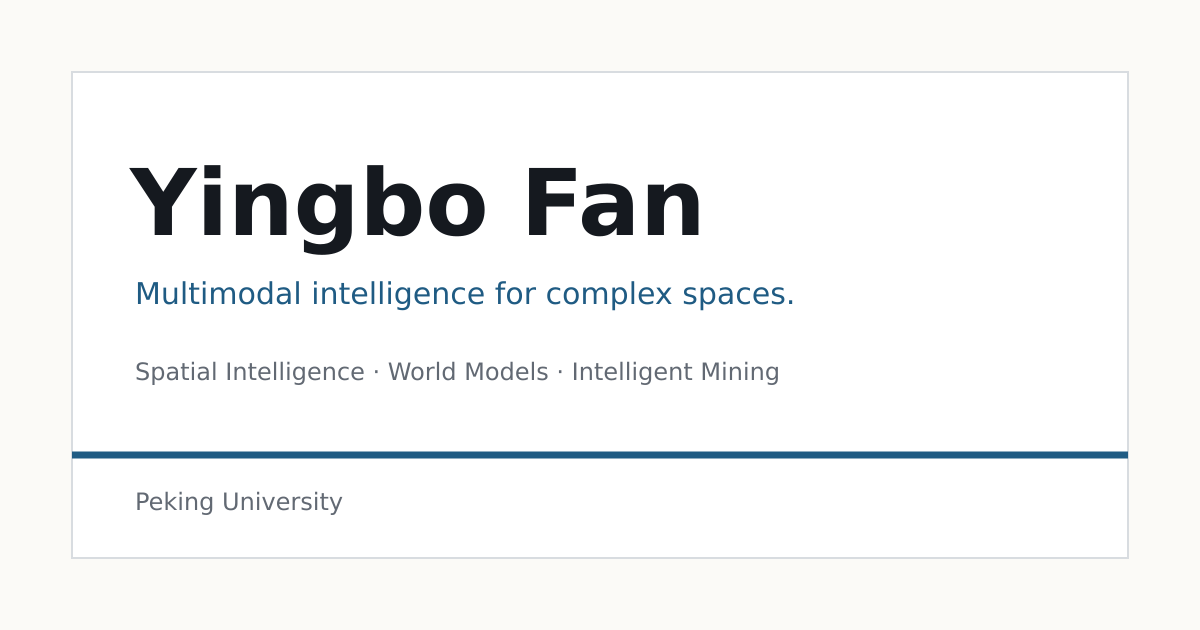
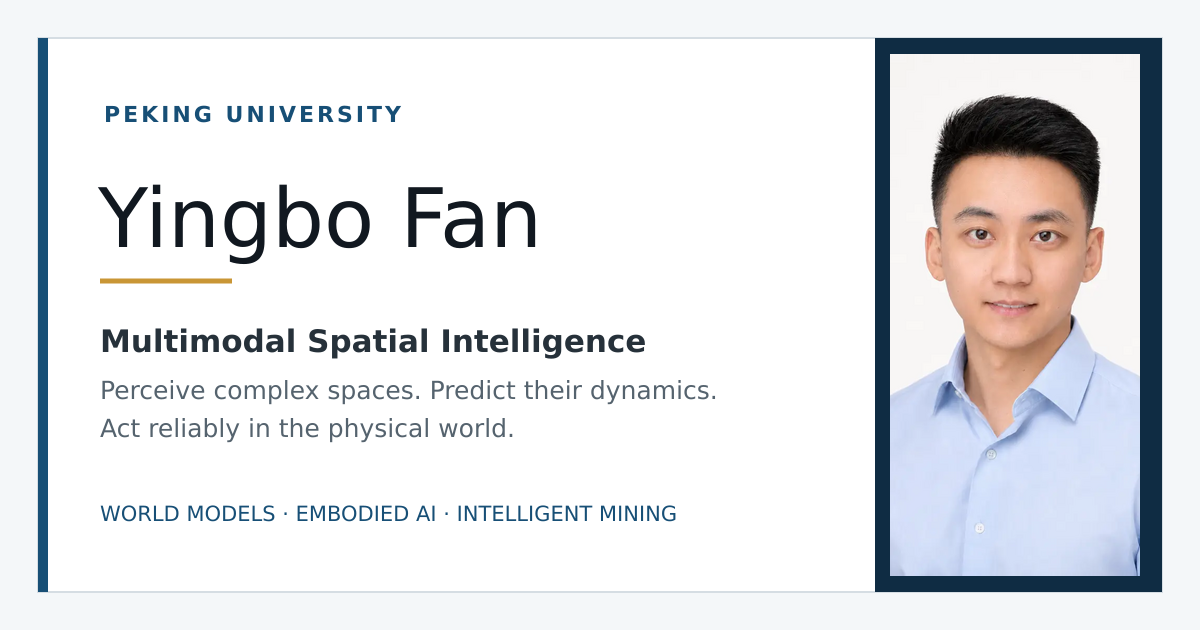
Polish citations, collaboration, and sharing

diff --git a/src/site.js b/src/site.js
@@ -46,3 +46,34 @@ if (filterButtons.length && publicationRows.length) {
 
   updateFilter('all');
 }
+
+const bibtexButtons = [...document.querySelectorAll('[data-copy-bibtex]')];
+
+const copyText = async (value) => {
+  if (navigator.clipboard && window.isSecureContext) {
+    await navigator.clipboard.writeText(value);
+    return;
+  }
+  const textarea = document.createElement('textarea');
+  textarea.value = value;
+  textarea.setAttribute('readonly', '');
+  textarea.style.position = 'fixed';
+  textarea.style.opacity = '0';
+  document.body.appendChild(textarea);
+  textarea.select();
+  document.execCommand('copy');
+  textarea.remove();
+};
+
+bibtexButtons.forEach((button) => {
+  button.addEventListener('click', async () => {
+    const template = document.getElementById(button.dataset.copyBibtex);
+    if (!template) return;
+    const value = template.content.textContent.trim();
+    await copyText(value);
+    button.textContent = button.dataset.copied;
+    window.setTimeout(() => {
+      button.textContent = button.dataset.label;
+    }, 1600);
+  });
+});

diff --git a/src/styles.css b/src/styles.css
@@ -303,6 +303,16 @@ p {
   font-size: 0.94rem;
 }
 
+.collaboration-note {
+  max-width: 680px;
+  margin: 1.45rem 0 0;
+  padding-left: 1rem;
+  border-left: 2px solid var(--accent);
+  color: var(--muted);
+  font-size: 0.9rem;
+  line-height: 1.6;
+}
+
 .portrait-wrap {
   align-self: center;
   margin: 0;
@@ -699,6 +709,11 @@ p {
   color: var(--muted);
 }
 
+.self-author {
+  color: var(--ink);
+  font-weight: 750;
+}
+
 .publication-summary {
   max-width: 760px;
 }
@@ -921,6 +936,18 @@ p {
   overflow-wrap: anywhere;
 }
 
+.publication-actions .publication-links {
+  justify-content: flex-end;
+}
+
+.bibtex-button {
+  padding: 0;
+  border: 0;
+  background: transparent;
+  font: inherit;
+  cursor: pointer;
+}
+
 .tag-row {
   display: flex;
   flex-wrap: wrap;
@@ -1130,6 +1157,10 @@ p {
   .publication-actions {
     grid-column: 2;
     text-align: left;
+  }
+
+  .publication-actions .publication-links {
+    justify-content: flex-start;
   }
 }
 
